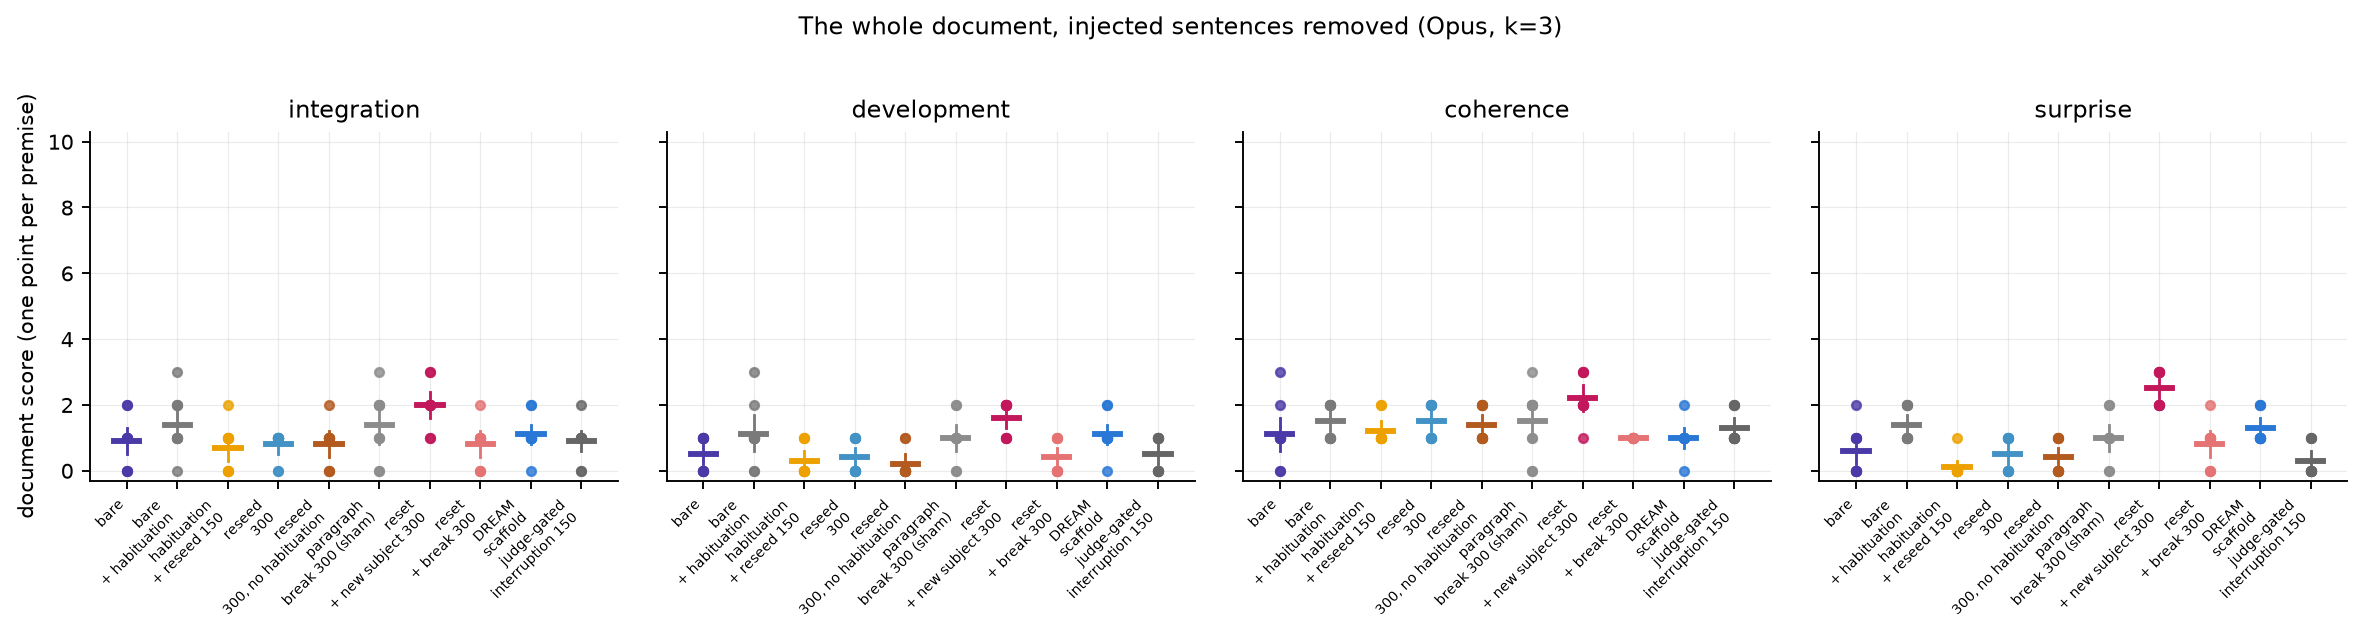
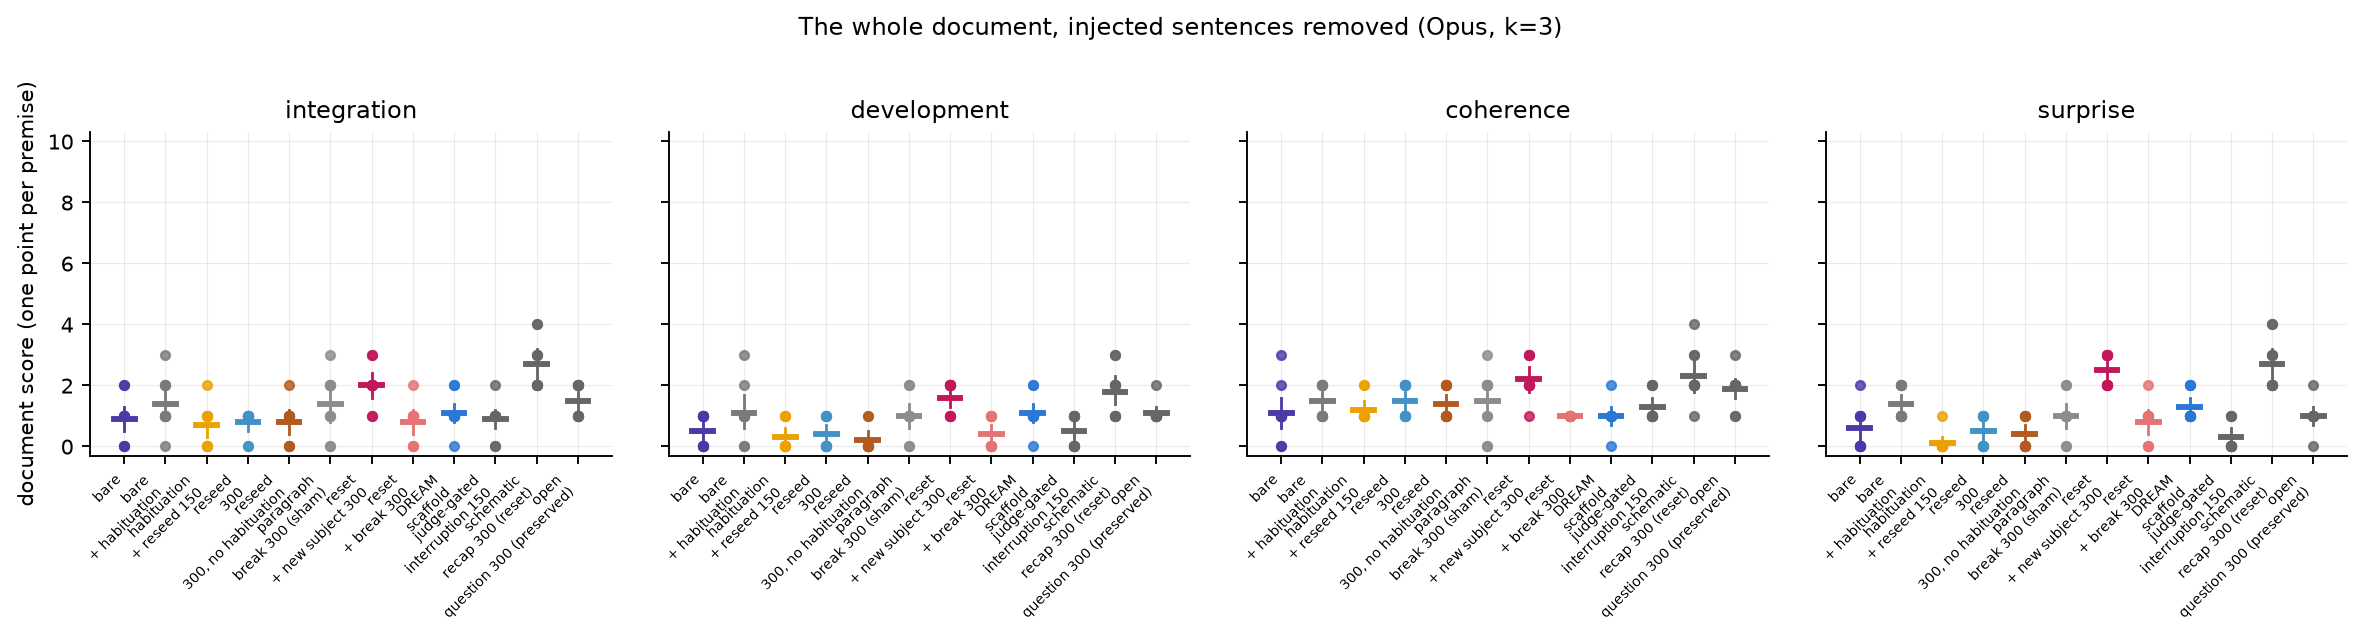
Battery M result: M2 and M3 supported (schematic memory buys integration; open question buys integration+development); M1 docsum not supported (development unmoved); M4 no local cost

diff --git a/docs/APPENDIX_GEN.md b/docs/APPENDIX_GEN.md
@@ -2,7 +2,7 @@
 
 Windows of 96 model-generated tokens starting 32 tokens after each injection (none crossing an injection); uniform grid for uninterrupted arms; the judge sees the 600 preceding tokens as context. Unit = cell (premise); CIs are bootstrap over cells; paired comparisons use exact sign-flip permutation p-values on the 10 paired differences and Cliff's delta on cell means. Opus 5, k=5, median per window.
 
-1967 judged windows on the main generator, 290 on Qwen3-8B, 272 on OLMo-2.
+2147 judged windows on the main generator, 290 on Qwen3-8B, 272 on OLMo-2.
 
 
 ### Q1 — habituation × interruption (period 150) and baselines — cell means (mean over cells [95% CI over cells])
@@ -301,6 +301,8 @@ A window is *copied* when at least half of its 12-token shingles occur earlier i
 | reset + new subject 300 | 60 | 0% | 0% | 3.75 / 3.30 / 6.87 (n=10) | — |
 | reset + break 300 | 60 | 0% | 0% | 2.07 / 1.78 / 5.40 (n=10) | — |
 | DREAM scaffold | 31 | 6% | 0% | 2.69 / 1.92 / 6.24 (n=10) | 2.50 / 1.50 / 2.00 |
+| schematic recap 300 (reset) | 60 | 0% | 0% | 3.90 / 3.22 / 6.60 (n=10) | — |
+| open question 300 (preserved) | 60 | 33% | 2% | 2.82 / 2.03 / 6.01 (n=10) | 0.70 / 0.90 / 3.20 |
 
 ### Self-copy on the other generators (ladder arms; copied = >= 50% shingles seen earlier in the stream)
 
@@ -337,8 +339,14 @@ A window is *copied* when at least half of its 12-token shingles occur earlier i
 | interruption 900 vs habituation | surprise | **+1.35 [+0.84, +1.79]** | 0.004 | +0.95 | 10 |
 | interruption 900 vs habituation | connection | **+0.92 [+0.30, +1.54]** | 0.023 | +0.66 | 10 |
 | interruption 900 vs habituation | coherence | **+1.75 [+0.82, +2.65]** | 0.008 | +0.78 | 10 |
+| schematic recap vs reset (300) | surprise | +0.15 [-0.15, +0.43] | 0.410 | +0.25 | 10 |
+| schematic recap vs reset (300) | connection | -0.08 [-0.45, +0.28] | 0.742 | -0.05 | 10 |
+| schematic recap vs reset (300) | coherence | **-0.27 [-0.52, -0.02]** | 0.102 | -0.29 | 10 |
+| open question vs neutral subject (300) | surprise | -0.20 [-0.70, +0.34] | 0.512 | -0.18 | 10 |
+| open question vs neutral subject (300) | connection | -0.00 [-0.45, +0.45] | 1.000 | -0.07 | 10 |
+| open question vs neutral subject (300) | coherence | **-0.51 [-0.87, -0.09]** | 0.059 | -0.36 | 10 |
 
-## Document level — the whole 4,500-token stream, injected sentences removed, Opus k=3 (230 documents)
+## Document level — the whole 4,500-token stream, injected sentences removed, Opus k=3 (250 documents)
 
 Unit = cell (one document each). Integration: parts taken up and joined later; development: something builds rather than restarts or repeats; coherence: reads as one text; surprise: the whole goes somewhere unpredictable yet sensible.
 
@@ -354,6 +362,8 @@ Unit = cell (one document each). Integration: parts taken up and joined later; d
 | reset + break 300 | 10 | 0.80 [0.40, 1.20] | 0.40 [0.10, 0.70] | 1.00 [1.00, 1.00] | 0.80 [0.40, 1.20] |
 | DREAM scaffold | 10 | 1.10 [0.80, 1.40] | 1.10 [0.80, 1.40] | 1.00 [0.70, 1.30] | 1.30 [1.00, 1.60] |
 | judge-gated interruption 150 | 10 | 0.90 [0.60, 1.20] | 0.50 [0.20, 0.80] | 1.30 [1.00, 1.60] | 0.30 [0.00, 0.60] |
+| schematic recap 300 (reset) | 10 | 2.70 [2.20, 3.20] | 1.80 [1.40, 2.30] | 2.30 [1.80, 2.80] | 2.70 [2.20, 3.20] |
+| open question 300 (preserved) | 10 | 1.50 [1.20, 1.80] | 1.10 [1.00, 1.30] | 1.90 [1.60, 2.20] | 1.00 [0.70, 1.30] |
 | salience only | 10 | 1.20 [0.80, 1.60] | 1.00 [0.60, 1.50] | 1.50 [1.20, 1.80] | 1.30 [1.00, 1.60] |
 | habituation, EOS allowed | 10 | 1.50 [1.00, 2.10] | 1.00 [0.70, 1.30] | 1.50 [1.00, 2.00] | 1.20 [0.80, 1.70] |
 | reseed 600 | 10 | 1.70 [1.40, 2.00] | 0.90 [0.70, 1.00] | 1.70 [1.40, 2.00] | 1.20 [1.00, 1.50] |
@@ -408,6 +418,26 @@ Unit = cell (one document each). Integration: parts taken up and joined later; d
 | judge-gated vs habituation | development | -0.60 [-1.30, +0.00] | 0.250 | -0.40 | 10 |
 | judge-gated vs habituation | coherence | -0.20 [-0.60, +0.30] | 0.688 | -0.20 | 10 |
 | judge-gated vs habituation | surprise | **-1.10 [-1.40, -0.80]** | 0.004 | -0.82 | 10 |
+| schematic recap vs reset (300) | integration | **+0.70 [+0.10, +1.30]** | 0.125 | +0.44 | 10 |
+| schematic recap vs reset (300) | development | +0.20 [-0.50, +0.90] | 0.781 | +0.12 | 10 |
+| schematic recap vs reset (300) | coherence | +0.10 [-0.60, +0.80] | 1.000 | +0.03 | 10 |
+| schematic recap vs reset (300) | surprise | +0.20 [-0.50, +0.90] | 0.797 | +0.10 | 10 |
+| schematic recap vs preserved (300) | integration | **+1.90 [+1.30, +2.60]** | 0.002 | +1.00 | 10 |
+| schematic recap vs preserved (300) | development | **+1.40 [+0.90, +1.90]** | 0.004 | +0.84 | 10 |
+| schematic recap vs preserved (300) | coherence | **+0.80 [+0.30, +1.40]** | 0.031 | +0.55 | 10 |
+| schematic recap vs preserved (300) | surprise | **+2.20 [+1.70, +2.70]** | 0.002 | +1.00 | 10 |
+| open question vs neutral subject (300) | integration | **+0.70 [+0.30, +1.10]** | 0.031 | +0.60 | 10 |
+| open question vs neutral subject (300) | development | **+0.70 [+0.30, +1.10]** | 0.031 | +0.64 | 10 |
+| open question vs neutral subject (300) | coherence | +0.40 [+0.00, +0.80] | 0.250 | +0.35 | 10 |
+| open question vs neutral subject (300) | surprise | +0.50 [+0.00, +1.00] | 0.188 | +0.45 | 10 |
+
+### Battery M — pre-registered document-level contrasts (docsum = (integration+development)/2; one-sided)
+
+| hypothesis | contrast | Δ [CI] | p | n |
+|---|---|---|---|---|
+| M1 (primary) | schema300 vs reset_reseed300 | +0.45 [-0.15, +1.05] | 0.1328 | 10 |
+| M2 | schema300 vs clock300 | +1.65 [+1.15, +2.25] | 0.0010 | 10 |
+| M3 | anomaly300 vs clock300 | +0.70 [+0.40, +1.05] | 0.0039 | 10 |
 
 ### P2 — the ladder on Qwen3-8B-Base without quantization (bf16) — cell means (mean over cells [95% CI over cells])
 

diff --git a/docs/PLANO.md b/docs/PLANO.md
@@ -1291,6 +1291,39 @@ repositório público. Aguardando: moderação (primeira submissão) e anúncio
 repositório; considerar Zenodo DOI para o pacote de dados. Próximos alvos:
 workshop de juízes (paper curto pronto; CFP a confirmar) e ICCC'27.
 
+**Bateria M — resultado (2026-08-20, 16:32–18:43; `docs/APPENDIX_GEN.md`)**:
+- **M1 (primária) NÃO suportada no docsum**: schema vs reset em
+  (integração+desenvolvimento)/2 = +0,45 [−0,15, +1,05], p = 0,13. Mas a
+  decomposição é informativa: **integração +0,70 [+0,10, +1,30]** (p = 0,125
+  unilateral no docsum; bilateral por dimensão: IC exclui zero), desenvolvimento
+  +0,20 (nada). A recapitulação dá ao modelo o que integrar (integração de
+  documento 2,70 — o maior valor de TODO o programa) e não dá progressão.
+- **M2 suportada com folga**: schema vs verbatim (clock300) +1,65 [+1,15,
+  +2,25], p = 0,001 — em TODAS as dimensões de documento (integração +1,90,
+  desenvolvimento +1,40, coerência +0,80, surpresa +2,20; 10/10 premissas em
+  integração e surpresa). Lembrar o esquema >> reler o texto.
+- **M3 suportada**: anomaly vs assunto neutro +0,70 [+0,40, +1,05], p =
+  0,004 (integração +0,70 p = 0,03; desenvolvimento +0,70 p = 0,03). A
+  pergunta persistente ajuda — mas o nível absoluto segue baixo (docs ~2) e
+  as notas do juiz mostram colapsos (loop da própria pergunta reimpressa;
+  33% de auto-cópia no braço, fonte quase toda visível).
+- **M4**: janelas frescas schema ≈ reset (surpresa +0,15 ns; conexão −0,08;
+  coerência −0,27) — a recapitulação não custa nada localmente. Auto-cópia
+  do schema = 0%.
+- Escadas de leitura: verbatim 1,08 → reset 2,08 → **schema 2,45** (docsum);
+  todo o ganho do schema sobre reset é integração. Janela fresca do schema:
+  3,90 / 3,22 / 6,60 — também o melhor braço local do programa.
+Leitura: a tese sobrevive pela metade e com direção clara — **memória
+esquemática compra integração** (M2 forte, componente de integração de M1
+positivo), **tensão persistente compra integração+desenvolvimento** (M3),
+mas nada ainda compra progressão de verdade (desenvolvimento ≤ 2/10; M1
+docsum falha porque desenvolvimento não mexe). O órgão que falta agora tem
+nome mais fino: não é lembrar, é **avançar** — o que sugere combinar os dois
+braços (recapitulação + pergunta em aberto na MESMA injeção: "eis o que já
+aconteceu; eis o que ainda não foi respondido") e/ou dar ao recap um formato
+de agenda ("o que falta resolver") em vez de resumo do ocorrido. Candidato
+natural a braço único de follow-up antes de escrever o paper 2.
+
 ## Paper 2 — tese: o órgão que falta (2026-08-20, manhã)
 
 O paper 1 estabeleceu: variação local é barata (interrupção: +1,2–1,4 de
